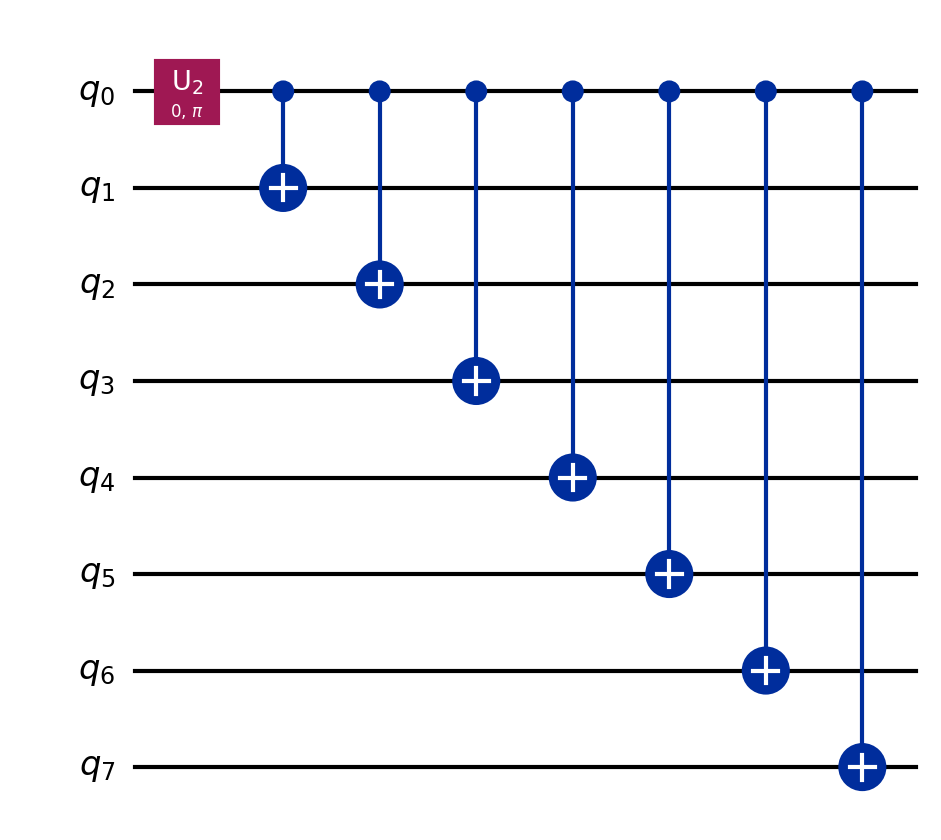
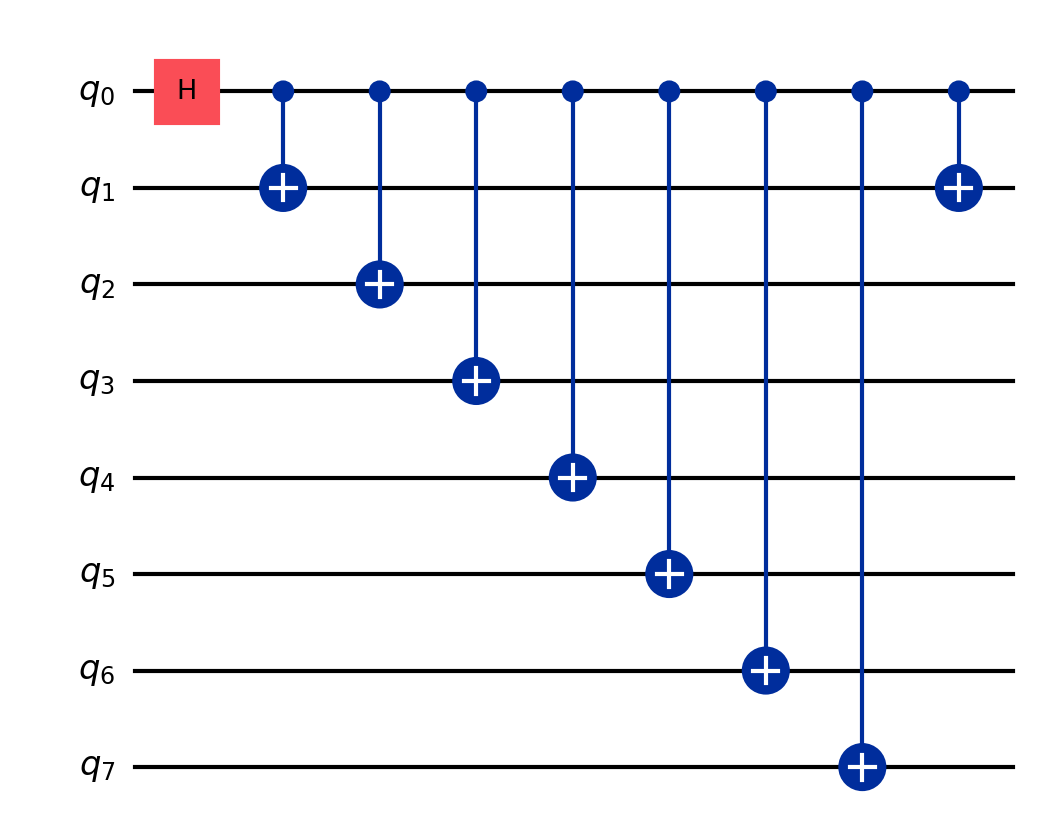
Testing

diff --git a/test/python/transpiler/test_sabre_swap_simple.py b/test/python/transpiler/test_sabre_swap_simple.py
@@ -38,94 +38,12 @@ class SimplifiedTestSabreSwap(QiskitTestCase):
             writer = csv.writer(file)
             writer.writerow(["num_qubits", "old_depth", "new_depth"])
 
-
-    def test_trivial_case(self):
-        """Test that an already mapped circuit is unchanged.
-                  ┌───┐┌───┐
-        q_0: ──■──┤ H ├┤ X ├──■──
-             ┌─┴─┐└───┘└─┬─┘  │
-        q_1: ┤ X ├──■────■────┼──
-             └───┘┌─┴─┐       │
-        q_2: ──■──┤ X ├───────┼──
-             ┌─┴─┐├───┤       │
-        q_3: ┤ X ├┤ X ├───────┼──
-             └───┘└─┬─┘     ┌─┴─┐
-        q_4: ───────■───────┤ X ├
-                            └───┘
-        """
-        coupling = CouplingMap.from_ring(5)
-
-        qr = QuantumRegister(5, "q")
-        qc = QuantumCircuit(qr)
-        qc.cx(0, 1)  # free
-        qc.cx(2, 3)  # free
-        qc.h(0)  # free
-        qc.cx(1, 2)  # F
-        qc.cx(1, 0)
-        qc.cx(4, 3)  # F
-        qc.cx(0, 4)
-
-        passmanager = PassManager(SabreSwap(coupling, "basic"))
-        new_qc = passmanager.run(qc)
-
-        self.assertEqual(new_qc, qc)
-
-    def test_lookahead_mode(self):
-        """Test lookahead mode with a simple circuit."""
-        coupling = CouplingMap.from_line(5)
-
-        qr = QuantumRegister(5, "q")
-        qc = QuantumCircuit(qr)
-        qc.cx(0, 1)  # free
-        qc.cx(2, 3)  # free
-        qc.h(0)  # free
-        qc.cx(1, 2)  # free
-        qc.cx(1, 3)  # F
-        qc.cx(2, 3)  # E
-        qc.cx(1, 3)  # E
-
-        pm = PassManager(SabreSwap(coupling, "lookahead"))
-        new_qc = pm.run(qc)
-
-        self.assertEqual(new_qc.num_nonlocal_gates(), 7)
-
-    def test_deterministic_output(self):
-        """Test that the output of the SabreSwap pass is deterministic for a given random seed."""
-        heuristic = "basic"
-        width = 40
-
-        # The actual circuit is unimportant, we just need one with lots of scoring degeneracy.
-        qc = QuantumCircuit(width)
-        for i in range(width // 2):
-            qc.cx(i, i + (width // 2))
-        for i in range(0, width, 2):
-            qc.cx(i, i + 1)
-        dag = circuit_to_dag(qc)
-
-        coupling = CouplingMap.from_line(width)
-        pass_0 = SabreSwap(coupling, heuristic, seed=0, trials=1)
-        pass_1 = SabreSwap(coupling, heuristic, seed=1, trials=1)
-        dag_0 = pass_0.run(dag)
-        dag_1 = pass_1.run(dag)
-
-        # This deliberately avoids using a topological order, because that introduces an opportunity
-        # for the re-ordering to sort the swaps back into a canonical order.
-        def normalize_nodes(dag):
-            return [(node.op.name, node.qargs, node.cargs) for node in dag.op_nodes()]
-
-        # A sanity check for the test - if unequal seeds don't produce different outputs for this
-        # degenerate circuit, then the test probably needs fixing (or Sabre is ignoring the seed).
-        self.assertNotEqual(normalize_nodes(dag_0), normalize_nodes(dag_1))
-
-        # Check that a re-run with the same seed produces the same circuit in the exact same order.
-        self.assertEqual(normalize_nodes(dag_0), normalize_nodes(pass_0.run(dag)))
-
-    @ddt.data(2, 4, 8, 16)
+    @ddt.data(6)
     def test_ghz_2q_depth(self, num_qubits):
         """Test that the SabreSwap pass with a fixed seed produces a specific 2 qubit gate depth for a GHZ circuit."""
         # Setup
         coupling = CouplingMap.from_line(num_qubits)
-        heuristic = "basic"
+        heuristic = "decay"
 
         # Create a GHZ circuit
         qr = QuantumRegister(num_qubits, "q")
@@ -133,22 +51,32 @@ class SimplifiedTestSabreSwap(QiskitTestCase):
         qc.h(0)
         for i in range(1, num_qubits):
             qc.cx(0, i)
+        qc.cx(0,1)
+
+        dag_orig = circuit_to_dag(qc)
 
         # Create a PassManager and run the SabreSwap pass
-        pm = PassManager(SabreSwap(coupling, heuristic, seed=42))
+        pm = PassManager(SabreSwap(coupling, heuristic, seed=42, trials=1))
         new_qc = pm.run(qc)
-
-        # Decompose the swap gates in the circuits to cx gates
-        qc = qc.decompose()
-        new_qc = new_qc.decompose()
 
         # Optional: Save the circuits to files
         qc.draw(output='mpl', filename=f'.images/ghz_{num_qubits}_old_circuit.png')
         new_qc.draw(output='mpl', filename=f'.images/ghz_{num_qubits}_new_circuit.png')
 
+        # Get the DAGs of the circuits
+        dag = circuit_to_dag(qc)
+        new_dag = circuit_to_dag(new_qc)
+        dag.draw(filename=f'.images/ghz_{num_qubits}_old_dag.png')
+        new_dag.draw(filename=f'.images/ghz_{num_qubits}_new_dag.png')
+        dag_orig.draw(filename=f'.images/ghz_{num_qubits}_orig_dag.png')
+
         # Obtain the 2 qubit gate depth of old and new circuits
         old_depth = qc.depth(lambda x: x.operation.num_qubits == 2)
         new_depth = new_qc.depth(lambda x: x.operation.num_qubits == 2)
+
+        # Decompose the swap gates in the circuits to cx gates
+        qc = qc.decompose()
+        new_qc = new_qc.decompose()
 
         # Save the results to a CSV file
         with open(self.csv_file_path, mode='a', newline='') as file:

diff --git a/crates/accelerate/src/sabre/route.rs b/crates/accelerate/src/sabre/route.rs
@@ -337,6 +337,7 @@ impl<'a, 'b> RoutingState<'a, 'b> {
         // swap if it involves at least one active qubit (i.e. it must affect the "basic"
         // heuristic), and if it involves two active qubits, we choose the `swap[0] < swap[1]` form
         // to make a canonical choice.
+
         self.swap_scores.clear();
         for &phys in self.front_layer.iter_active() {
             for &neighbor in self.target.neighbors[phys].iter() {
@@ -427,11 +428,13 @@ pub fn sabre_routing(
     seed: Option<u64>,
     run_in_parallel: Option<bool>,
 ) -> (SwapMap, PyObject, NodeBlockResults, PyObject) {
+
     let target = RoutingTargetView {
         neighbors: neighbor_table,
         coupling: &neighbor_table.coupling_graph(),
         distance: distance_matrix.as_array(),
     };
+
     let (res, final_layout) = swap_map(
         &target,
         dag,
@@ -441,6 +444,7 @@ pub fn sabre_routing(
         num_trials,
         run_in_parallel,
     );
+    
     (
         res.map,
         res.node_order.into_pyarray_bound(py).into(),
@@ -533,12 +537,15 @@ pub fn swap_map_trial(
         rng: Pcg64Mcg::seed_from_u64(seed),
         seed,
     };
+
     for node in dag.dag.node_indices() {
         for edge in dag.dag.edges(node) {
             state.required_predecessors[edge.target().index()] += 1;
         }
     }
+
     state.route_reachable_nodes(&dag.first_layer);
+
     state.populate_extended_set();
 
     // Main logic loop; the front layer only becomes empty when all nodes have been routed.  At
@@ -588,6 +595,7 @@ pub fn swap_map_trial(
         }
         routable_nodes.clear();
     }
+
     (
         SabreResult {
             map: SwapMap { map: state.out_map },

diff --git a/crates/accelerate/src/sabre/layer.rs b/crates/accelerate/src/sabre/layer.rs
@@ -28,10 +28,10 @@ use crate::nlayout::PhysicalQubit;
 /// extension, not for every swap trialled.
 pub struct FrontLayer {
     /// Map of the (index to the) node to the qubits it acts on.
-    nodes: IndexMap<NodeIndex, [PhysicalQubit; 2], ::ahash::RandomState>,
+    pub nodes: IndexMap<NodeIndex, [PhysicalQubit; 2], ::ahash::RandomState>,
     /// Map of each qubit to the node that acts on it and the other qubit that node acts on, if this
     /// qubit is active (otherwise `None`).
-    qubits: Vec<Option<(NodeIndex, PhysicalQubit)>>,
+    pub qubits: Vec<Option<(NodeIndex, PhysicalQubit)>>,
 }
 
 impl FrontLayer {
@@ -158,8 +158,8 @@ impl FrontLayer {
 /// worry about tracking gate indices or anything like that.  We track length manually just to
 /// avoid a summation.
 pub struct ExtendedSet {
-    qubits: Vec<Vec<PhysicalQubit>>,
-    len: usize,
+    pub qubits: Vec<Vec<PhysicalQubit>>,
+    pub len: usize,
 }
 
 impl ExtendedSet {
